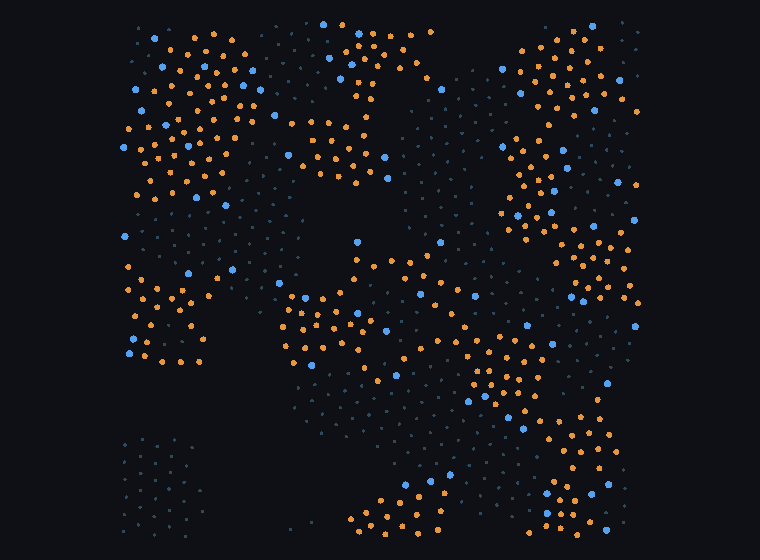
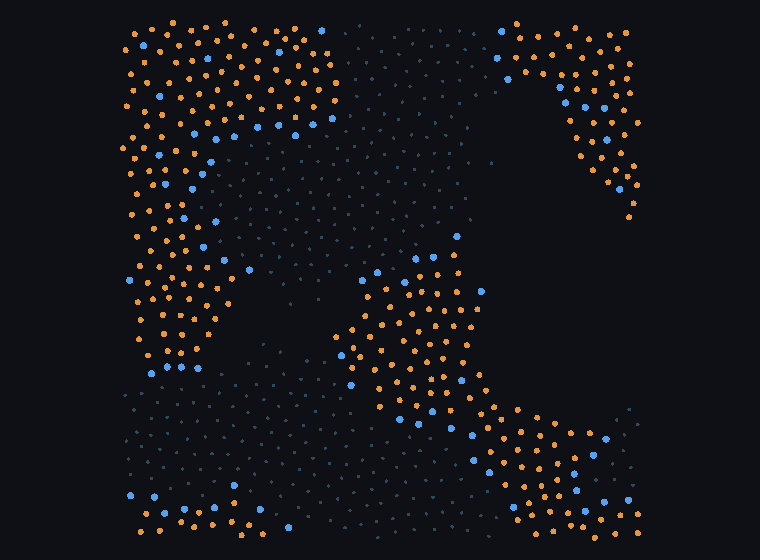
vivarium: the lipid has been a single-chain DETERGENT; add real two-chain topology
Every molecule in field.py is one linear chain, HEAD-TAIL-TAIL-... For a single chain the packing
parameter P = v/(a0*l) has both v and l proportional to tail bead count, so P is INDEPENDENT of tail
length. Lengthening the tail 2 -> 4 -> 6 was moving a knob that cannot move the phase, and the
(kT, n_tail) sweep showed exactly that: every tail length gel or micelle, never bilayer.

Single-chain amphiphiles sit near P ~ 1/3, the micelle band -- a detergent. Bilayer formers are
phospholipids with TWO chains per head, which doubles v at fixed l and reaches P ~ 1/2 to 1.

polar_pack.py already had this and said so: "branched=False # two tails from one head (a real lipid)
vs a linear chain". The rewrite to field.py dropped it and nothing since questioned it. Micelles and
percolating networks are what a detergent is supposed to give.

Implemented as a Y topology, head plus two chains of n_tail/2, with the controlled comparison being
1 head + 2 chains of 2 against 1 head + 4 linear: identical bead count, different topology, so any
difference is branching rather than size.

Bug caught while implementing: the placement loop used `for k in range(half)` and shadowed the outer
bead counter, leaving the water index range 344 beads short. It crashed here; at a different bead
count it would have silently mislabelled species.

Falsification stated before the run: if branched and linear at matched bead count give the same
[…]

diff --git a/projects/vivarium/_mixture.py b/projects/vivarium/_mixture.py
@@ -70,7 +70,32 @@ def shot(X, species, L, tag, slab=1.2):
 C_D = {2: np.pi, 3: 4.0 * np.pi / 3.0}
 
 
-def build(n_short, n_long, n_water, L, d, tails=(2, 4), seed=0, plant="random"):
+def chain_bonds(idx, n_tail, branched):
+    """Bond list for one molecule.
+
+    LINEAR is a single chain: head-t1-t2-... A single-chain amphiphile is a DETERGENT. Its packing
+    parameter P = v/(a0*l) has both v and l proportional to the tail bead count, so P is INDEPENDENT
+    of tail length -- which is why lengthening the tail from 2 to 4 to 6 never moved the phase. Single
+    chains sit near P ~ 1/3, the micelle band, and micelles are what this project keeps producing.
+
+    BRANCHED is two chains from one head, which is what a real phospholipid is. It doubles v at fixed
+    l and puts P in the 1/2 to 1 bilayer band. `polar_pack.py` already carried this distinction
+    ("two tails from one head (a real lipid) vs a linear chain"); the rewrite to `field.py` dropped it.
+    """
+    if not branched or n_tail < 2:
+        return [[idx[b], idx[b + 1]] for b in range(len(idx) - 1)]
+    half = n_tail // 2
+    out, head = [], idx[0]
+    for c in range(2):
+        prev = head
+        for k in range(half):
+            nxt = idx[1 + c * half + k]
+            out.append([prev, nxt])
+            prev = nxt
+    return out
+
+
+def build(n_short, n_long, n_water, L, d, tails=(2, 4), seed=0, plant="random", branched=False):
     """`random` disperses everything; `ring` plants a curved two-leaflet bilayer.
 
     The ring start exists because partitioning and nucleation are different questions. From a random
@@ -95,10 +120,22 @@ def build(n_short, n_long, n_water, L, d, tails=(2, 4), seed=0, plant="random"):
         c = rng.uniform(-L / 2, L / 2, size=d)
         u = rng.normal(size=d)
         u /= np.linalg.norm(u)
-        for b in range(1 + t):
-            X[idx[b]] = c + u * b
+        if branched and t >= 2:
+            half = t // 2
+            perp = np.array([-u[1], u[0]] + [0.0] * (d - 2))[:d]
+            X[idx[0]] = c
+            for ch in range(2):
+                sgn = 1.0 if ch == 0 else -1.0
+                # NOT `k`: that is the outer bead counter, and shadowing it left the water index
+                # range 344 beads short. It crashed here; with a different bead count it would have
+                # silently mislabelled species instead.
+                for j in range(half):
+                    X[idx[1 + ch * half + j]] = c + u * (j + 1) + perp * sgn * 0.45
+        else:
+            for b in range(1 + t):
+                X[idx[b]] = c + u * b
         mols.append(idx)
-        bonds += [[idx[b], idx[b + 1]] for b in range(t)]
+        bonds += chain_bonds(idx, t, branched)
         k += 1 + t
     if plant == "ring":
         _plant_ring(X, mols, np.array(chains), d)

diff --git a/projects/vivarium/_emerge2d.py b/projects/vivarium/_emerge2d.py
@@ -45,19 +45,22 @@ if __name__ == "__main__":
     L = float(sys.argv[3]) if len(sys.argv) > 3 else 28.0
     kT = float(sys.argv[4]) if len(sys.argv) > 4 else 0.35
     n_tail = int(sys.argv[5]) if len(sys.argv) > 5 else 2
+    branched = (sys.argv[6] if len(sys.argv) > 6 else "linear") == "branched"
     phi, d = 0.55, 2
 
     n_water = int(round(phi * L ** 2 / (np.pi * 0.25))) - (1 + n_tail) * n_lip
     if n_water < 0:
         raise ValueError(f"L={L} too small for {n_lip} lipids at packing fraction {phi}")
-    X, species, bonds, mols, wi, chains = build(0, n_lip, n_water, L, d, plant="random")
+    X, species, bonds, mols, wi, chains = build(0, n_lip, n_water, L, d, plant="random",
+                                                branched=branched)
     mol = np.array([m for m in mols])
     f = Field(species, bonds, L)
     # inertial at the validated dt = 8e-3: same equilibrium ensemble, 28x more reduced time per minute
     dt = 8e-3
     ig = Inertial(f, kT, dt, seed=1)
 
-    print(f"EMERGENCE 2-D: {n_lip} lipids (1 head + {n_tail} tails) + {n_water} water, L={L}, "
+    print(f"EMERGENCE 2-D: {n_lip} {'BRANCHED' if branched else 'linear'} lipids "
+          f"(1 head + {n_tail} tails) + {n_water} water, L={L}, "
           f"kT={kT}, dispersed start, {steps} steps", flush=True)
     print(f"a spanning stripe costs about {2 * L:.0f} lipids, so a ring is affordable "
           f"{'BELOW' if n_lip < 2 * L else 'ABOVE -- stripe wins'} this count", flush=True)
@@ -75,5 +78,5 @@ if __name__ == "__main__":
             hollow += (v == "HOLLOW")
             print(f"{t:>8}{f.energy(X) / n_lip:>9.2f}{largest_cluster(X, mols, L):>9}"
                   f"{g['R_mid']:>7.2f}{g['shell_cv']:>9.3f}{g['lumen_w']:>8}   {v}", flush=True)
-            shot(X, species, L, f"em2d_N{n_lip}_L{int(L)}_s{t:07d}")
+            shot(X, species, L, f"em2d_{'br' if branched else 'lin'}_N{n_lip}_s{t:07d}")
     print(f"\nHOLLOW at {hollow} of {checks} checkpoints ({100.0 * hollow / checks:.0f}%)", flush=True)
